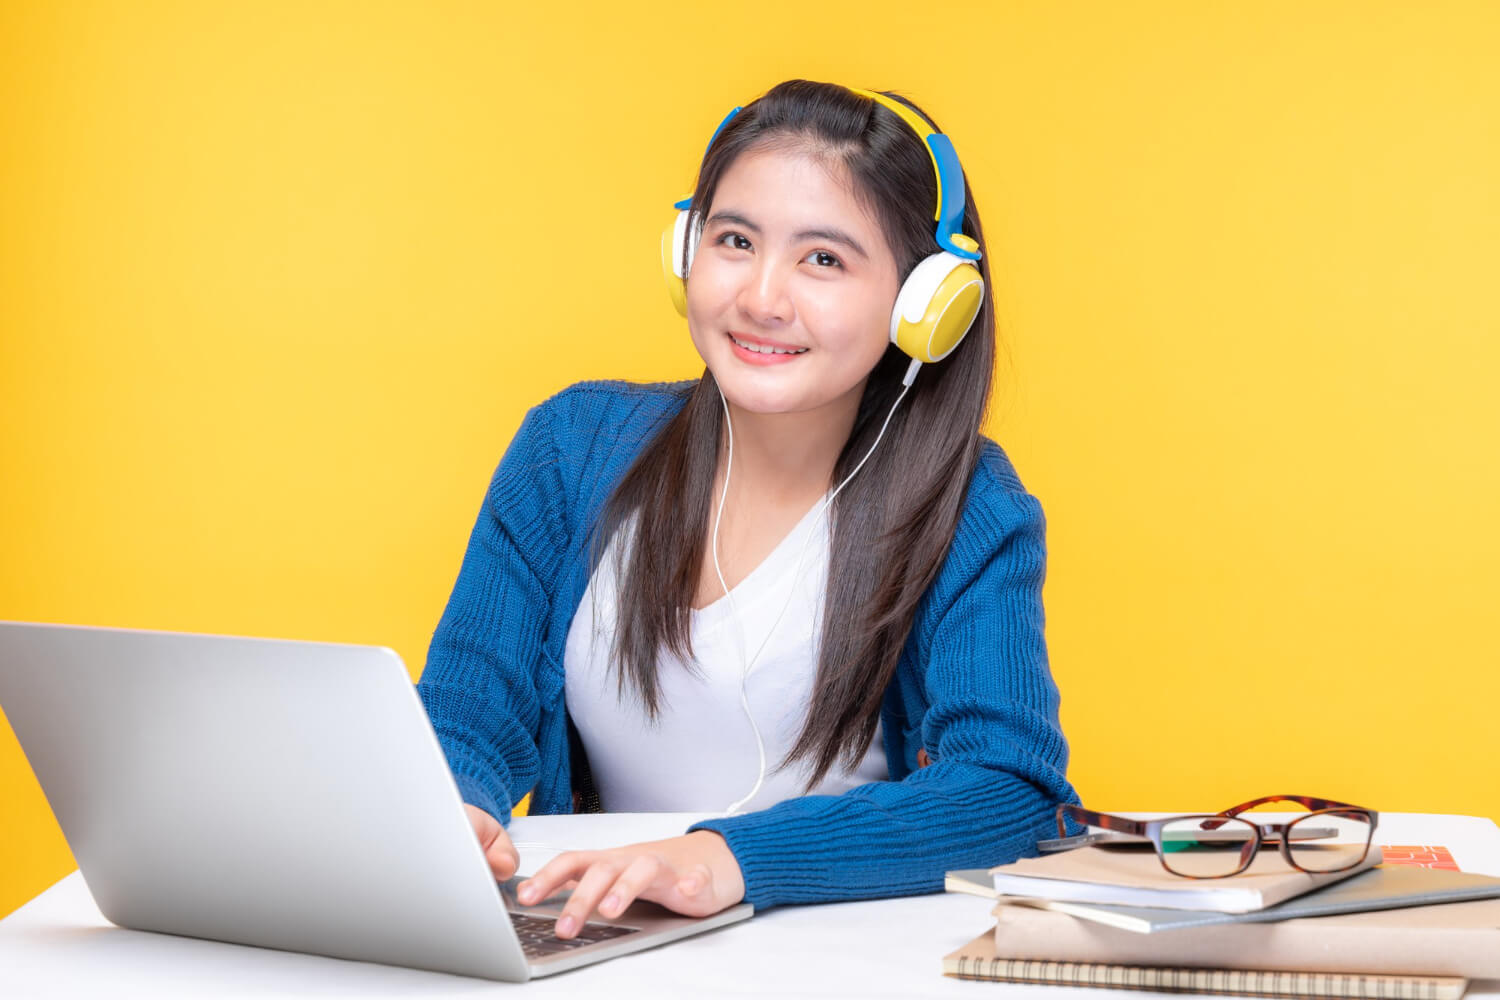
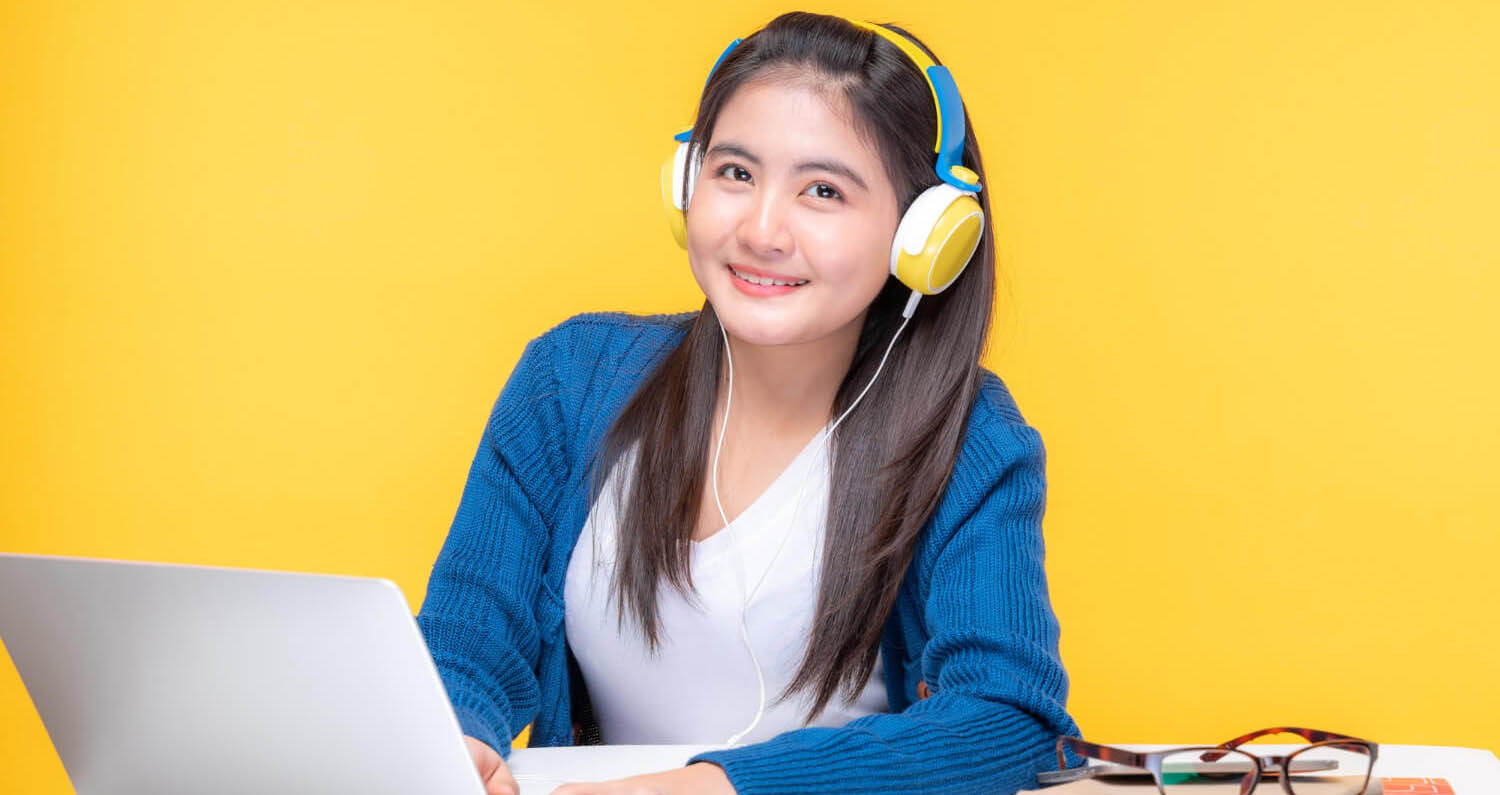
Slider Added

diff --git a/index.html b/index.html
@@ -8,12 +8,29 @@
     <!-- Bootstrap Link -->
     <link href="https://cdn.jsdelivr.net/npm/bootstrap@5.2.0/dist/css/bootstrap.min.css" rel="stylesheet" integrity="sha384-gH2yIJqKdNHPEq0n4Mqa/HGKIhSkIHeL5AyhkYV8i59U5AR6csBvApHHNl/vI1Bx" crossorigin="anonymous">
 
+    <!-- Custom CSS -->
+    <style>
+        @media only screen and (max-width: 688px){
+            .sliderHeader{
+                font-size: 3vh;
+            }
+
+            .sliderPara{
+                font-size: 2vh;
+            }
+
+            .sliderBtn{
+                font-size: 3vh;
+            }
+        }
+    </style>
+
     <title>Patsala</title>
 </head>
 <body>
-    <header>
+    <header class="container">
         <!-- Navbar Start -->
-        <nav class="navbar navbar-expand-lg bg-light">
+        <nav class="navbar navbar-expand-lg">
             <div class="container">
                 <a class="navbar-brand fs-2 fw-bold" href="#">Patsala</a>
                 <div class="d-flex justify-content-end">
@@ -45,6 +62,47 @@
             </div>
         </nav>
         <!-- Navbar End -->
+
+        <!-- Slider Start -->
+        <section class="mt-5 container h-100">
+            <div id="carouselExampleCaptions" class="carousel slide" data-bs-ride="carousel">
+                <div class="carousel-inner position-relative">
+                    <div class="carousel-item active">
+                        <img src="images/cover/cover-1.png" class="d-block w-100 rounded" alt="cover 1">
+                        <div class="container-fluid carousel-caption d-flex flex-column h-100 align-items-center justify-content-center p-5 position-absolute start-0 bottom-0 bg-black rounded" style="--bs-bg-opacity: .5;">
+                            <h1 class="display-2 fw-bold w-75 sliderHeader">Get Started Digital Learning</h1>
+                            <p class="sliderPara">Some representative placeholder content for the first slide.</p>
+                            <button class="btn btn-primary fs-4 fw-bold sliderBtn">Get Started</button>
+                        </div>
+                    </div>
+                    <div class="carousel-item">
+                        <img src="images/cover/cover-2.jpg" class="d-block w-100 rounded" alt="cover 2">
+                        <div class="container-fluid carousel-caption d-flex flex-column h-100 align-items-center justify-content-center p-5 position-absolute start-0 bottom-0 bg-black rounded" style="--bs-bg-opacity: .5;">
+                            <h1 class="display-2 fw-bold w-75 sliderHeader">Get Started Digital Learning</h1>
+                            <p class="sliderPara">Some representative placeholder content for the second slide.</p>
+                            <button class="btn btn-primary fs-4 fw-bold sliderBtn">Get Started</button>
+                        </div>
+                    </div>
+                    <div class="carousel-item">
+                        <img src="images/cover/cover-3.jpg" class="d-block w-100 rounded" alt="cover 3">
+                        <div class="container-fluid carousel-caption d-flex flex-column h-100 align-items-center justify-content-center p-5 position-absolute start-0 bottom-0 bg-black rounded" style="--bs-bg-opacity: .5;">
+                            <h1 class="display-2 fw-bold w-75 sliderHeader">Get Started Digital Learning</h1>
+                            <p class="sliderPara">Some representative placeholder content for the third slide.</p>
+                            <button class="btn btn-primary fs-4 fw-bold sliderBtn">Get Started</button>
+                        </div>
+                    </div>
+                </div>
+                <button class="carousel-control-prev d-none d-md-block d-lg-block d-xl-block d-xxl-block" type="button" data-bs-target="#carouselExampleCaptions" data-bs-slide="prev">
+                    <span class="carousel-control-prev-icon" aria-hidden="true"></span>
+                    <span class="visually-hidden">Previous</span>
+                </button>
+                <button class="carousel-control-next d-none d-md-block d-lg-block d-xl-block d-xxl-block" type="button" data-bs-target="#carouselExampleCaptions" data-bs-slide="next">
+                    <span class="carousel-control-next-icon" aria-hidden="true"></span>
+                    <span class="visually-hidden">Next</span>
+                </button>
+            </div>
+        </section>
+        <!-- Slider End -->
     </header>
     <!-- Bootstrap Script -->
     <script src="https://cdn.jsdelivr.net/npm/bootstrap@5.2.0/dist/js/bootstrap.bundle.min.js" integrity="sha384-A3rJD856KowSb7dwlZdYEkO39Gagi7vIsF0jrRAoQmDKKtQBHUuLZ9AsSv4jD4Xa" crossorigin="anonymous"></script>
